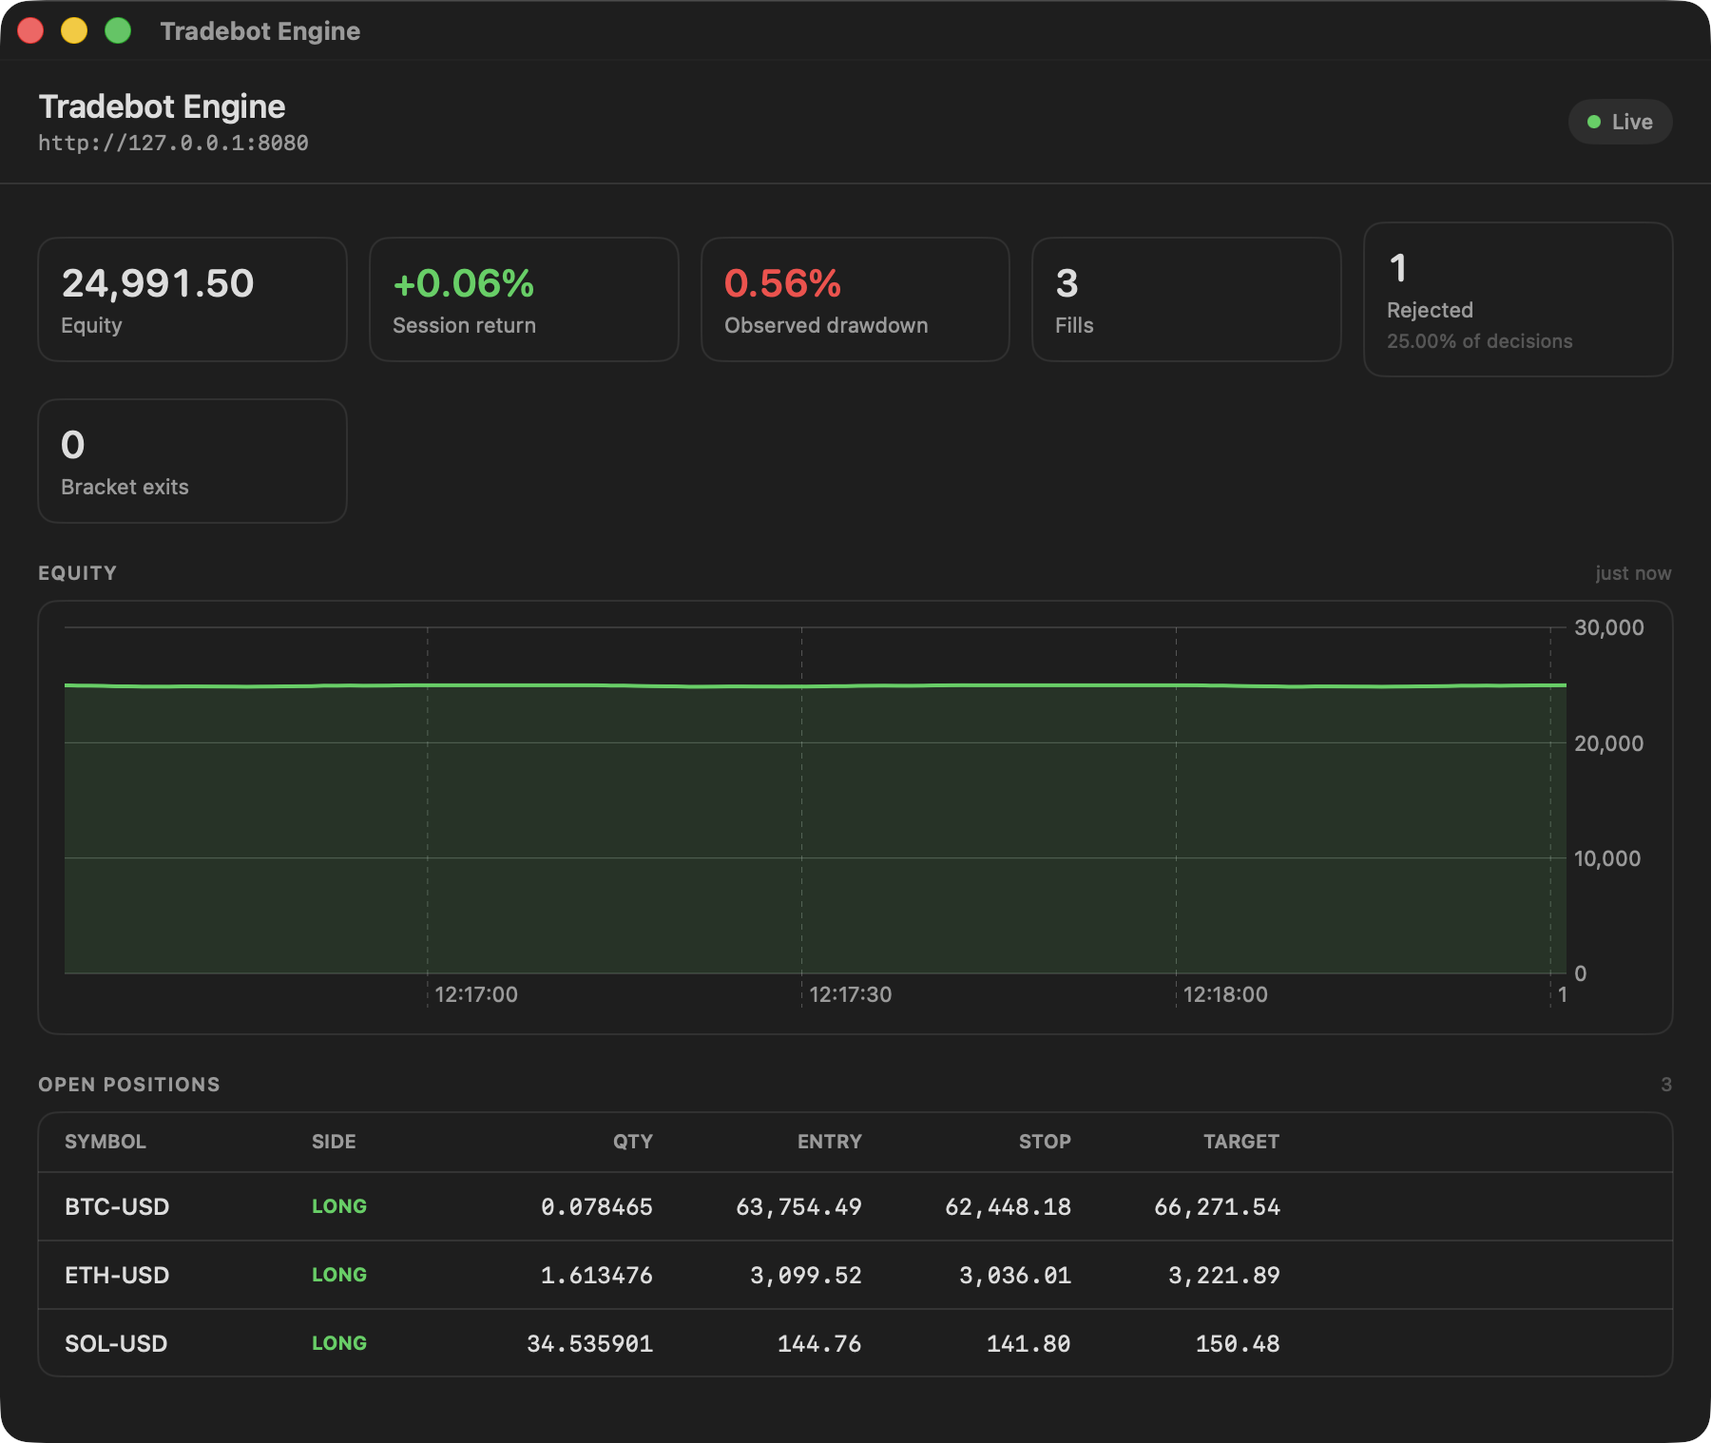
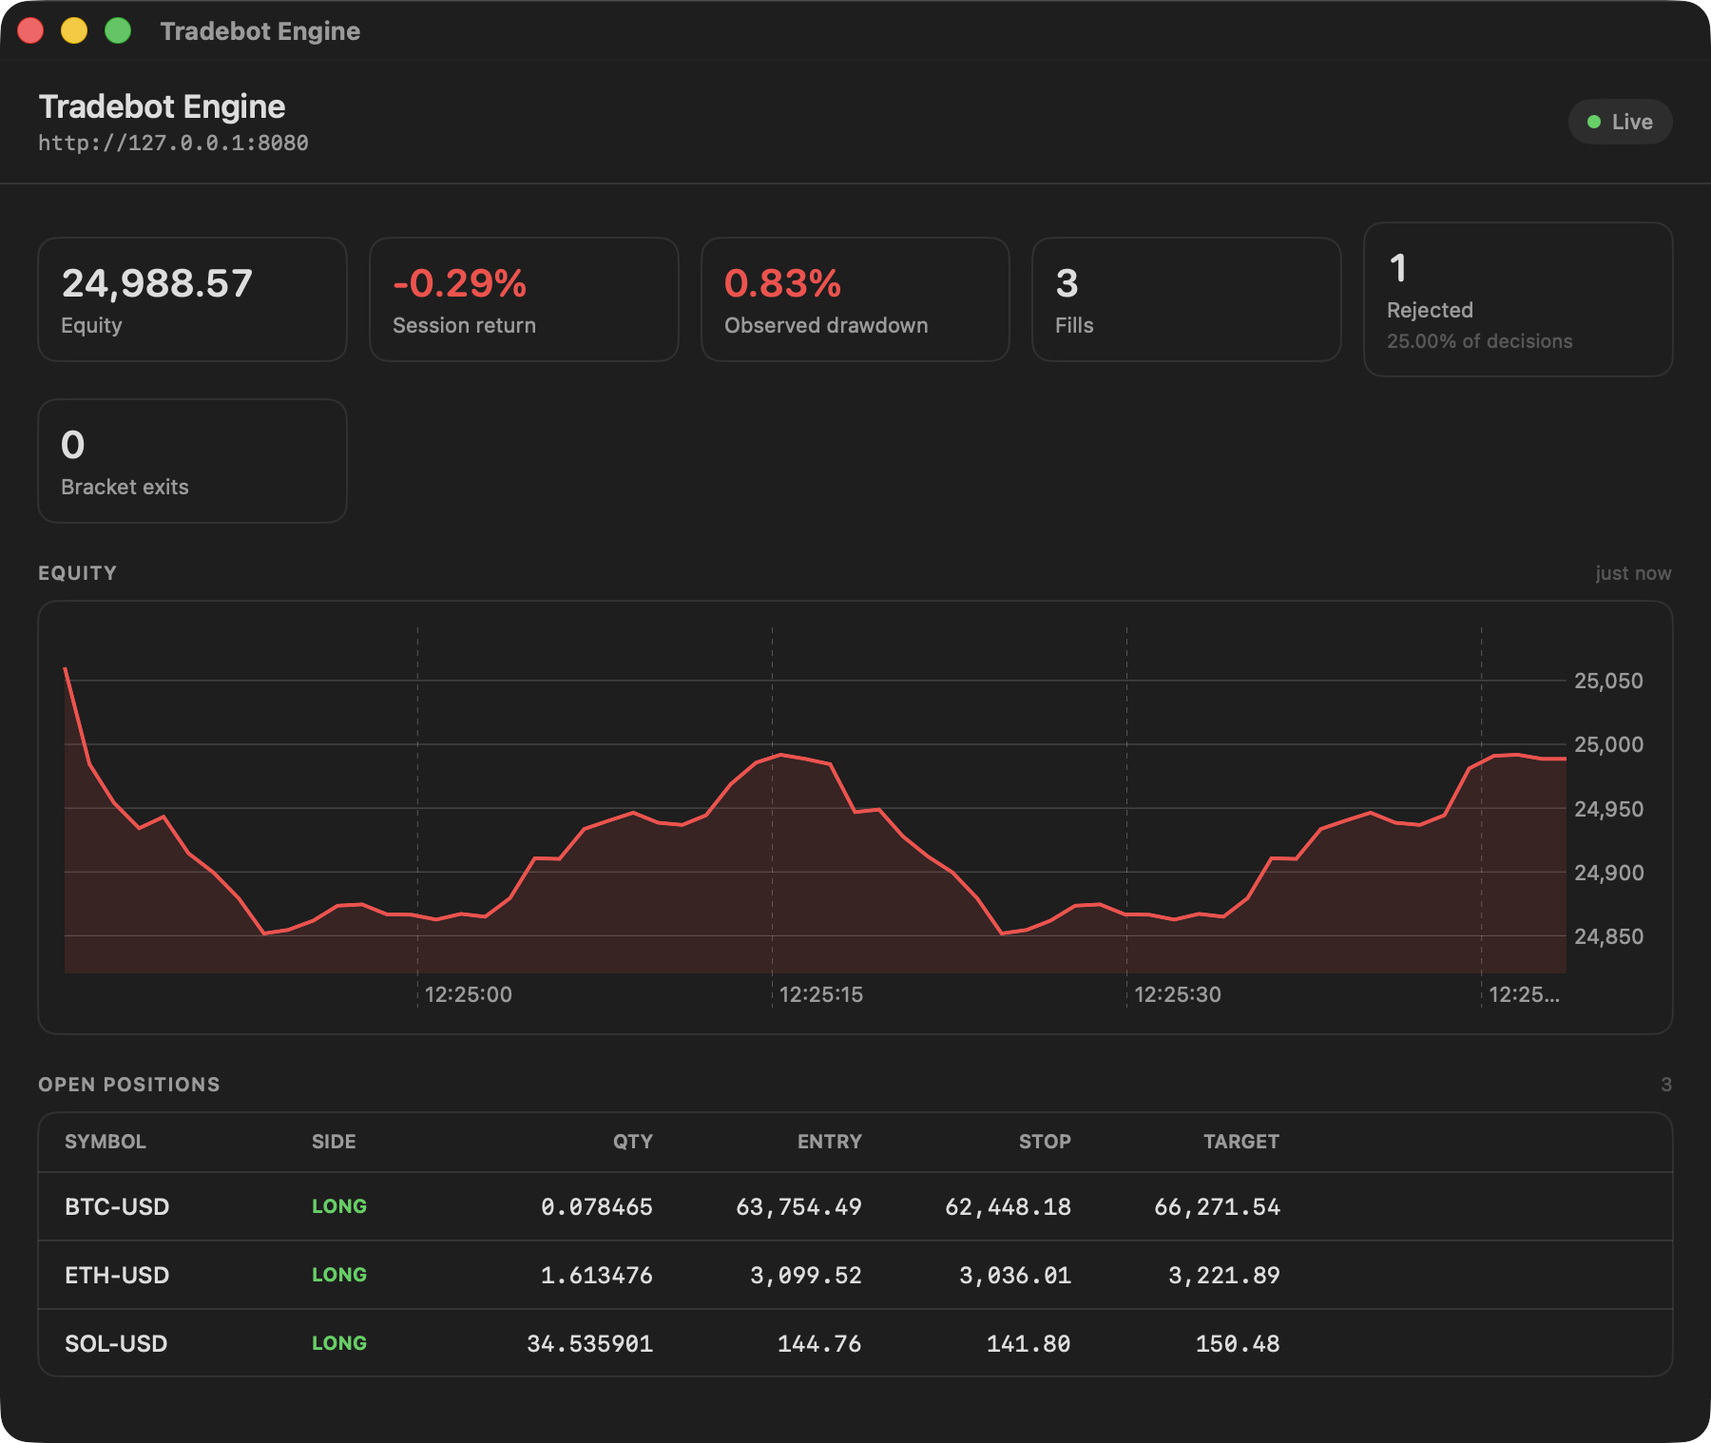
Fix kill-switch reset, trade-count labels, and dashboard y-axis
- The "daily" drawdown kill switch never reset in backtests or the live
  loop: nothing called start_day after the first bar, so one bad day
  halted the rest of the run. RiskEngine.roll_day now starts a new session
  on each new UTC day, and all three loops call it per bar.
- "Trades" meant orders in the CLI summary and closed round trips in the
  HTML report (299 vs 162 on the same run). Trades now always means round
  trips; the order counter is renamed n_orders and shown separately.
- The SwiftUI equity chart was pinned to a zero baseline, flattening a
  $25k account's moves. The y-axis now fits the observed range.

With the reset fixed, the default portfolio backtest no longer halts early
and shows the full loss (-40%) of a no-edge strategy after fees; the README
screenshot and caption say so. Tests: Python 23 + 13, Swift 36 checks.

diff --git a/dashboard/Tests/TradebotKitTests/main.swift b/dashboard/Tests/TradebotKitTests/main.swift
@@ -198,6 +198,36 @@ await suite("model accumulates equity history and derives session stats") { @Mai
     checkClose(model.equityHistory.first?.equity ?? 0, 10_500, "oldest sample dropped")
 }
 
+await suite("equity chart range hugs the data instead of starting at zero") { @MainActor in
+    let model = DashboardModel(client: makeClient())
+    let t0 = Date()
+    @MainActor func push(_ equity: Double, _ offset: TimeInterval) {
+        model.apply(
+            stats: EngineStats(decisions: 1, equity: equity),
+            portfolio: PortfolioSnapshot(equity: equity, cash: equity, positions: [:]),
+            at: t0.addingTimeInterval(offset)
+        )
+    }
+
+    checkEqual(model.equityDomain, 0...1, "no samples gives a placeholder range")
+
+    push(25_000, 0)
+    push(25_400, 1)
+    push(24_800, 2)
+    let domain = model.equityDomain
+    check(domain.lowerBound > 20_000, "range does not reach down toward zero")
+    check(domain.lowerBound < 24_800 && domain.upperBound > 25_400, "range contains every sample")
+    checkClose(domain.upperBound - domain.lowerBound, 600 * 1.3, "15% headroom each side of the span")
+
+    // A flat session keeps a sane minimum height instead of zooming into noise.
+    let flat = DashboardModel(client: makeClient())
+    flat.apply(stats: EngineStats(decisions: 0, equity: 25_000),
+               portfolio: PortfolioSnapshot(equity: 25_000, cash: 25_000, positions: [:]),
+               at: t0)
+    checkClose(flat.equityDomain.upperBound - flat.equityDomain.lowerBound, 50,
+               "flat range padded by 0.1% of equity each side")
+}
+
 await suite("model tolerates one dropped poll before reporting failure") { @MainActor in
     let offline = EngineClient(
         baseURL: URL(string: "http://127.0.0.1:8080")!,

diff --git a/dashboard/Sources/TradebotDashboard/DashboardView.swift b/dashboard/Sources/TradebotDashboard/DashboardView.swift
@@ -111,16 +111,20 @@ struct DashboardView: View {
                 if model.equityHistory.count < 2 {
                     placeholder("Waiting for samples…")
                 } else {
+                    let domain = model.equityDomain
                     Chart(model.equityHistory) { point in
+                        // The fill starts at the axis floor, not at zero, or the
+                        // area would force the scale back down to zero.
                         AreaMark(x: .value("Time", point.time),
-                                 y: .value("Equity", point.equity))
+                                 yStart: .value("Floor", domain.lowerBound),
+                                 yEnd: .value("Equity", point.equity))
                             .foregroundStyle(chartTint.opacity(0.12))
                         LineMark(x: .value("Time", point.time),
                                  y: .value("Equity", point.equity))
                             .foregroundStyle(chartTint)
                             .lineStyle(StrokeStyle(lineWidth: 2))
                     }
-                    .chartYScale(domain: .automatic(includesZero: false))
+                    .chartYScale(domain: domain)
                     .chartXAxis { AxisMarks(values: .automatic(desiredCount: 4)) }
                     .frame(height: 200)
                 }

diff --git a/dashboard/Sources/TradebotKit/DashboardModel.swift b/dashboard/Sources/TradebotKit/DashboardModel.swift
@@ -62,6 +62,17 @@ public final class DashboardModel {
         return (stats.equity - first.equity) / first.equity
     }
 
+    /// Y-axis range for the equity chart: the observed low and high plus some
+    /// headroom. A zero baseline would flatten a $25k account's moves into a
+    /// straight line; a floor on the padding keeps a flat session from
+    /// zooming in until rounding noise looks like volatility.
+    public var equityDomain: ClosedRange<Double> {
+        let values = equityHistory.map(\.equity)
+        guard let low = values.min(), let high = values.max() else { return 0...1 }
+        let pad = max((high - low) * 0.15, abs(high) * 0.001, 1)
+        return (low - pad)...(high + pad)
+    }
+
     /// Peak-to-trough decline across the observed window.
     public var observedDrawdown: Double {
         var peak = -Double.infinity

diff --git a/tests/test_core.py b/tests/test_core.py
@@ -81,6 +81,56 @@ def test_kill_switch_halts():
     assert order is None and "halted" in reason
 
 
+def test_kill_switch_holds_for_the_day_then_resets():
+    from datetime import timedelta
+    r = RiskEngine(RiskConfig(max_daily_drawdown_pct=0.05))
+    acct = Account(cash=10_000, equity=10_000)
+    r.start_day(10_000)
+    assert r.roll_day(TS, 10_000) is False          # first bar only records the day
+    acct.equity = 9_400
+    assert r.check_kill_switch(acct) is True
+    # Recovering equity later the same day does not clear the halt.
+    assert r.roll_day(TS + timedelta(hours=5), 9_900) is False
+    acct.equity = 9_900
+    assert r.check_kill_switch(acct) is True
+    # The next UTC day starts a fresh session from that day's opening equity.
+    assert r.roll_day(TS + timedelta(days=1), 9_900) is True
+    assert r.check_kill_switch(acct) is False
+    acct.equity = 9_400                              # -5.05% from 9,900
+    assert r.check_kill_switch(acct) is True
+
+
+def test_backtests_roll_the_risk_day_each_bar():
+    from tradebot.backtest.portfolio import PortfolioBacktester
+
+    class CountingRisk(RiskEngine):
+        def __init__(self):
+            super().__init__()
+            self.rolls = 0
+
+        def roll_day(self, ts, equity):
+            rolled = super().roll_day(ts, equity)
+            self.rolls += rolled
+            return rolled
+
+    candles = list(feed.synthetic_candles(n=72, seed=1))   # hourly: three days
+    days = len({c.ts.date() for c in candles})
+    single, multi = CountingRisk(), CountingRisk()
+    Backtester(EmaRsiStrategy(), Brain(use_llm=False), single,
+               PaperBroker(10_000)).run(candles)
+    PortfolioBacktester(EmaRsiStrategy, Brain(use_llm=False), multi,
+                        PaperBroker(10_000)).run({"BTC-USD": candles})
+    assert single.rolls == multi.rolls == days - 1
+
+
+def test_summary_trades_are_round_trips():
+    r = Backtester(EmaRsiStrategy(), Brain(use_llm=False), RiskEngine(),
+                   PaperBroker(10_000)).run(list(feed.synthetic_candles(n=500, seed=7)))
+    assert r.metrics.n_trades == len(r.trades)
+    assert f"Trades: {len(r.trades)} " in r.summary()
+    assert f"Orders: {r.n_orders} " in r.summary()
+
+
 def test_risk_blocks_stacking_past_cap():
     cfg = RiskConfig(max_position_pct=0.2, risk_per_trade_pct=1.0,
                      stop_loss_pct=0.02, min_confidence=0.0)
@@ -129,7 +179,8 @@ def test_backtest_runs_and_is_deterministic():
     candles = list(feed.synthetic_candles(n=500, seed=7))
     r1 = make().run(candles)
     r2 = make().run(list(feed.synthetic_candles(n=500, seed=7)))
-    assert r1.n_trades == r2.n_trades
+    assert r1.n_orders == r2.n_orders
+    assert r1.metrics.n_trades == r2.metrics.n_trades
     assert abs(r1.ending_equity - r2.ending_equity) < 1e-6
     assert len(r1.equity_curve) == 500
 

diff --git a/src/tradebot/backtest/portfolio.py b/src/tradebot/backtest/portfolio.py
@@ -26,9 +26,9 @@ class PortfolioResult:
     timestamps: list = field(default_factory=list)
     trades: list = field(default_factory=list)
     metrics: m.Metrics = field(default_factory=m.Metrics)
-    per_symbol: dict = field(default_factory=dict)
+    per_symbol: dict = field(default_factory=dict)   # orders per symbol
     n_signals: int = 0
-    n_trades: int = 0
+    n_orders: int = 0      # entries/flips submitted; closed round trips are metrics.n_trades
     n_rejected: int = 0
 
     @property
@@ -42,7 +42,7 @@ class PortfolioResult:
             f"Sharpe: {self.metrics.sharpe:.2f}  "
             f"Win%: {self.metrics.win_rate_pct:.0f}  "
             f"PF: {self.metrics.profit_factor:.2f}  "
-            f"Trades: {self.n_trades} ({by_sym})  Rejected: {self.n_rejected}  "
+            f"Trades: {self.metrics.n_trades}  Orders: {self.n_orders} ({by_sym})  Rejected: {self.n_rejected}  "
             f"Equity: {self.starting_equity:,.0f} -> {self.ending_equity:,.0f}"
         )
 
@@ -78,6 +78,7 @@ class PortfolioBacktester:
         self.risk.start_day(self.broker.account().equity)
 
         for candle in events:
+            self.risk.roll_day(candle.ts, self.broker.account().equity)
             self.broker.mark(candle.symbol, candle.close, candle.ts)
             self._check_exits(candle)
 
@@ -95,7 +96,7 @@ class PortfolioBacktester:
                     if not pos.is_flat and ((pos.qty > 0) != (order.side == Side.BUY)):
                         self.broker.close(order.symbol, reason="flip")
                     self.broker.submit(order)
-                    res.n_trades += 1
+                    res.n_orders += 1
                     res.per_symbol[candle.symbol] += 1
 
             self.risk.check_kill_switch(self.broker.account())

diff --git a/src/tradebot/backtest/engine.py b/src/tradebot/backtest/engine.py
@@ -27,7 +27,7 @@ class BacktestResult:
     trades: list = field(default_factory=list)   # metrics.Trade round trips
     metrics: m.Metrics = field(default_factory=m.Metrics)
     n_signals: int = 0
-    n_trades: int = 0
+    n_orders: int = 0      # entries/flips submitted; closed round trips are metrics.n_trades
     n_rejected: int = 0
     n_stops: int = 0
     n_targets: int = 0
@@ -47,7 +47,7 @@ class BacktestResult:
             f"Sharpe: {self.metrics.sharpe:.2f}  "
             f"Win%: {self.metrics.win_rate_pct:.0f}  "
             f"PF: {self.metrics.profit_factor:.2f}  "
-            f"Trades: {self.n_trades}  Rejected: {self.n_rejected}  "
+            f"Trades: {self.metrics.n_trades}  Orders: {self.n_orders}  Rejected: {self.n_rejected}  "
             f"Stops: {self.n_stops}  Targets: {self.n_targets}  "
             f"Signals: {self.n_signals}  "
             f"Equity: {self.starting_equity:,.0f} -> {self.ending_equity:,.0f}"
@@ -77,6 +77,7 @@ class Backtester:
         self.risk.start_day(self.broker.account().equity)
 
         for candle in candles:
+            self.risk.roll_day(candle.ts, self.broker.account().equity)
             self.broker.mark(candle.symbol, candle.close, candle.ts)
             self._check_exits(candle, res)
 
@@ -113,7 +114,7 @@ class Backtester:
         if not pos.is_flat and ((pos.qty > 0) != (order.side == Side.BUY)):
             self.broker.close(order.symbol, reason="flip")
         fill = self.broker.submit(order)
-        res.n_trades += 1
+        res.n_orders += 1
         if self.verbose:
             print(f"{candle.ts:%Y-%m-%d %H:%M} {fill.side.value} "
                   f"{fill.qty:.4f} {fill.symbol} @ {fill.price:,.2f} "

diff --git a/src/tradebot/core/risk.py b/src/tradebot/core/risk.py
@@ -7,6 +7,7 @@ enforcing hard caps that no amount of model confidence can override.
 from __future__ import annotations
 
 from dataclasses import dataclass
+from datetime import date, datetime, timezone
 
 from .types import Account, Decision, Order, OrderType, Side
 
@@ -50,11 +51,31 @@ class RiskEngine:
     def __init__(self, config: RiskConfig | None = None):
         self.cfg = config or RiskConfig()
         self._day_start_equity: float | None = None
+        self._day: date | None = None
         self._halted = False
 
     def start_day(self, equity: float) -> None:
+        """Begin a new session: reset the drawdown baseline and clear any halt."""
         self._day_start_equity = equity
         self._halted = False
+
+    def roll_day(self, ts: datetime, equity: float) -> bool:
+        """Start a new session when `ts` falls on a later UTC day.
+
+        Call this once per bar, before the bar is marked, with the equity the
+        account had going into it. A halt therefore lasts for the rest of the
+        day it tripped on, whatever equity does in the meantime, and the next
+        day starts fresh from that day's opening equity. Returns True on a roll.
+        """
+        day = (ts.astimezone(timezone.utc) if ts.tzinfo else ts).date()
+        if self._day is None:
+            self._day = day
+            return False
+        if day <= self._day:
+            return False
+        self._day = day
+        self.start_day(equity)
+        return True
 
     @property
     def halted(self) -> bool:

diff --git a/mcp/server.py b/mcp/server.py
@@ -71,7 +71,7 @@ def run_backtest(source="synthetic", symbol="BTC-USD", bars=1000, cash=10_000.0,
         "sharpe": round(getattr(m, "sharpe", 0.0), 4),
         "win_rate_pct": round(getattr(m, "win_rate_pct", 0.0), 2),
         "profit_factor": round(getattr(m, "profit_factor", 0.0), 4),
-        "n_trades": res.n_trades, "n_signals": res.n_signals,
+        "n_trades": m.n_trades, "n_orders": res.n_orders, "n_signals": res.n_signals,
         "n_rejected": res.n_rejected, "n_stops": res.n_stops, "n_targets": res.n_targets,
         "equity_curve": [round(x, 2) for x in res.equity_curve],
         "risk_config": {k: getattr(cfg, k) for k in vars(cfg)} if hasattr(cfg, "__dict__") else {},

diff --git a/src/tradebot/live/engine.py b/src/tradebot/live/engine.py
@@ -88,6 +88,7 @@ class LiveTrader:
             candle = self._safe_fetch(sym)
             if candle is None or not self._is_new(candle):
                 continue
+            self.risk.roll_day(candle.ts, self.broker.account().equity)
             self.broker_mark(candle)
             self._check_exits(candle)
             sig = self._strategies[sym].on_candle(candle)

diff --git a/README.md b/README.md
@@ -18,7 +18,7 @@
 ![Go](https://img.shields.io/badge/Go-1.22-00ADD8?style=flat-square&logo=go&logoColor=white)
 ![Swift](https://img.shields.io/badge/SwiftUI-native-F05138?style=flat-square&logo=swift&logoColor=white)
 ![Claude](https://img.shields.io/badge/Claude-brain%20%2B%20MCP-D97757?style=flat-square&logo=anthropic&logoColor=white)
-![Tests](https://img.shields.io/badge/tests-109%20passing-brightgreen?style=flat-square)
+![Tests](https://img.shields.io/badge/tests-117%20passing-brightgreen?style=flat-square)
 ![License](https://img.shields.io/badge/license-MIT-blue?style=flat-square)
 
 [What it does](#-what-it-does) • [Architecture](#-architecture) • [Try it](#-try-it-in-one-command) • [Under the hood](#-under-the-hood)
@@ -51,7 +51,7 @@ research-side bug cannot reach the market without passing the gate, because the 
 <tr>
 <td align="center" width="25%"><h3>104 ns</h3><sub>per risk-gate check, 0 allocations, race-tested</sub></td>
 <td align="center" width="25%"><h3>3</h3><sub>languages, each doing the job it is best at</sub></td>
-<td align="center" width="25%"><h3>109</h3><sub>tests across Go, Python and Swift, plus a cross-language CI job</sub></td>
+<td align="center" width="25%"><h3>117</h3><sub>tests across Go, Python and Swift, plus a cross-language CI job</sub></td>
 <td align="center" width="25%"><h3>2 flags</h3><sub>needed for real money, so one typo never trades it</sub></td>
 </tr>
 </table>
@@ -60,8 +60,8 @@ research-side bug cannot reach the market without passing the gate, because the 
 <tr>
 <td width="50%"><img src="docs/screenshots/dashboard.png" alt="SwiftUI dashboard showing equity, three open long positions with stops and targets, and one rejected decision"/><br/><b>The native monitor.</b> The SwiftUI dashboard watching the Go engine in sim mode: three positions with
 their stops and targets, and one proposal the gate rejected for low confidence.</td>
-<td width="50%"><img src="docs/screenshots/backtest-report.png" alt="HTML backtest report with stat tiles and an equity curve that goes flat after the kill switch fires"/><br/><b>The kill switch, working.</b> A losing three-symbol backtest. Once equity fell 5% below where it started,
-the gate halted trading and nothing traded again. That flat line is the feature.</td>
+<td width="50%"><img src="docs/screenshots/backtest-report.png" alt="HTML backtest report with stat tiles and an equity curve that bleeds steadily to minus 40 percent"/><br/><b>What no edge looks like.</b> The default strategy on a random walk with real fees and slippage:
+979 trades, −40%. The daily kill switch caps each day's loss; it cannot create an edge. Showing that is the job.</td>
 </tr>
 </table>
 
@@ -74,7 +74,7 @@ the gate halted trading and nothing traded again. That flat line is the feature.
 the judge is ever called. A failed critique counts as maximum doubt, never as "no objection".</td>
 <td width="50%"><b>🛡 A risk gate that can say no.</b> Position caps, risk-per-trade, stop-loss, confidence floor,
 max open positions and a daily-drawdown kill switch. Rejections are typed values you can count and alert on.
-Recovering equity does not clear a halt; only a new session does.</td>
+Recovering equity does not clear a halt; only a new session does (the next UTC day in Python, a restart in the Go engine).</td>
 </tr>
 <tr>
 <td><b>📈 Honest backtesting.</b> The backtest runs the exact code path a live run would. Walk-forward optimization
@@ -267,8 +267,8 @@ trading was never built there.
 | Suite | Command | Count |
 |---|---|---|
 | Go | `cd engine && go test -race ./...` | 45 tests + 3 benchmarks |
-| Python | `tests/test_core.py`, `tests/test_graph.py` | 20 + 13 tests |
-| Swift | `cd dashboard && ./test.sh` | 31 checks |
+| Python | `tests/test_core.py`, `tests/test_graph.py` | 23 + 13 tests |
+| Swift | `cd dashboard && ./test.sh` | 36 checks |
 
 CI runs all three on every push, plus an **integration job** that starts the Go engine, drives a trade through the
 risk gate and probes it with the Swift client: the cross-language seam unit tests cannot cover.

diff --git a/mcp/README.md b/mcp/README.md
@@ -11,7 +11,7 @@ Registered as a user-scope MCP server:
 
 | Tool | What it does |
 |---|---|
-| `backtest_run` | One backtest → return, max drawdown, Sharpe, win rate, profit factor, trade/signal/rejection counts, equity curve |
+| `backtest_run` | One backtest → return, max drawdown, Sharpe, win rate, profit factor, trade/order/signal/rejection counts, equity curve. `n_trades` is closed round trips; `n_orders` is orders submitted |
 | `backtest_sweep` | Same backtest across a range of one parameter, ranked by Sharpe. Finds which stop/target/confidence actually holds up |
 | `backtest_chart` | Runs a backtest and renders the equity curve to SVG (drawdown band shaded) |
 | `market_quote` | Live quote via the QuantCore Go proxy on :8080 |
